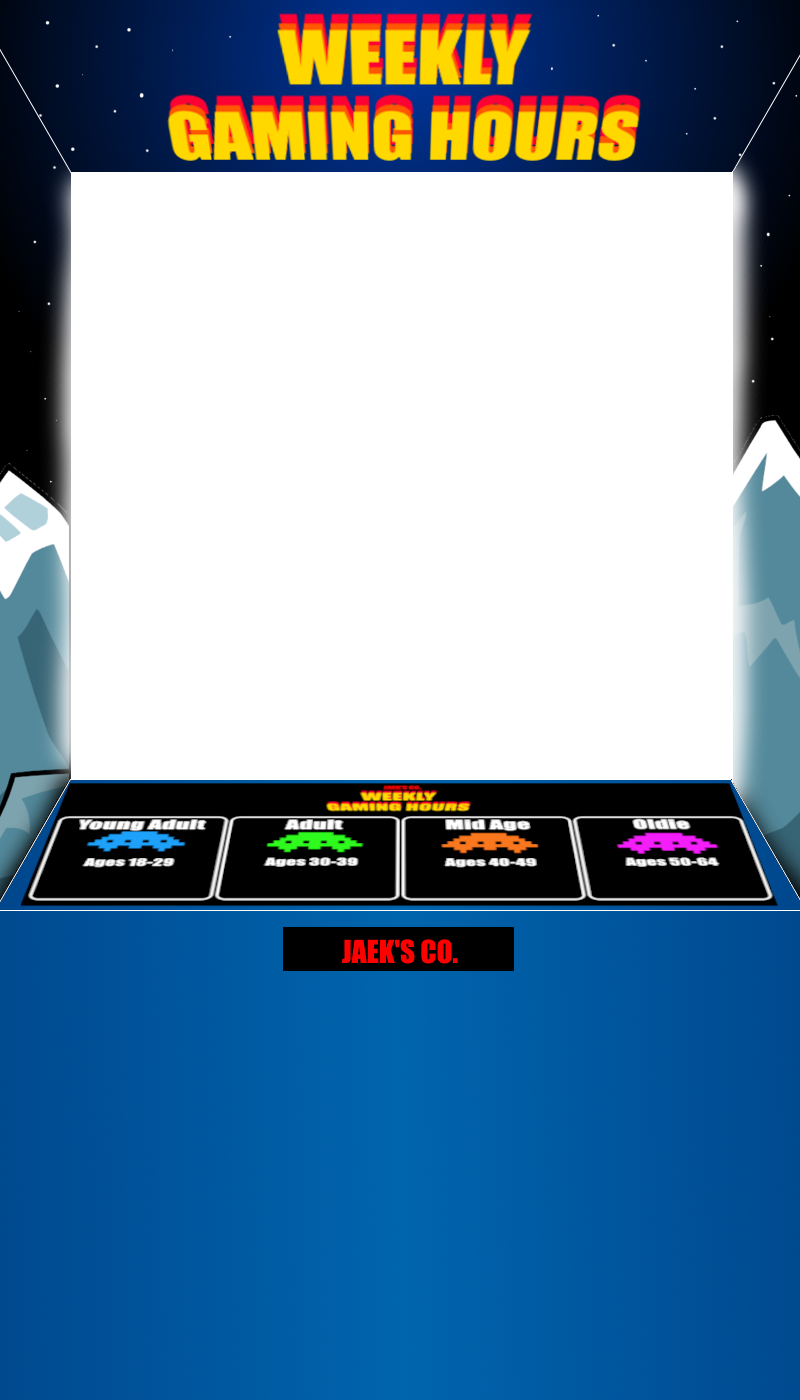
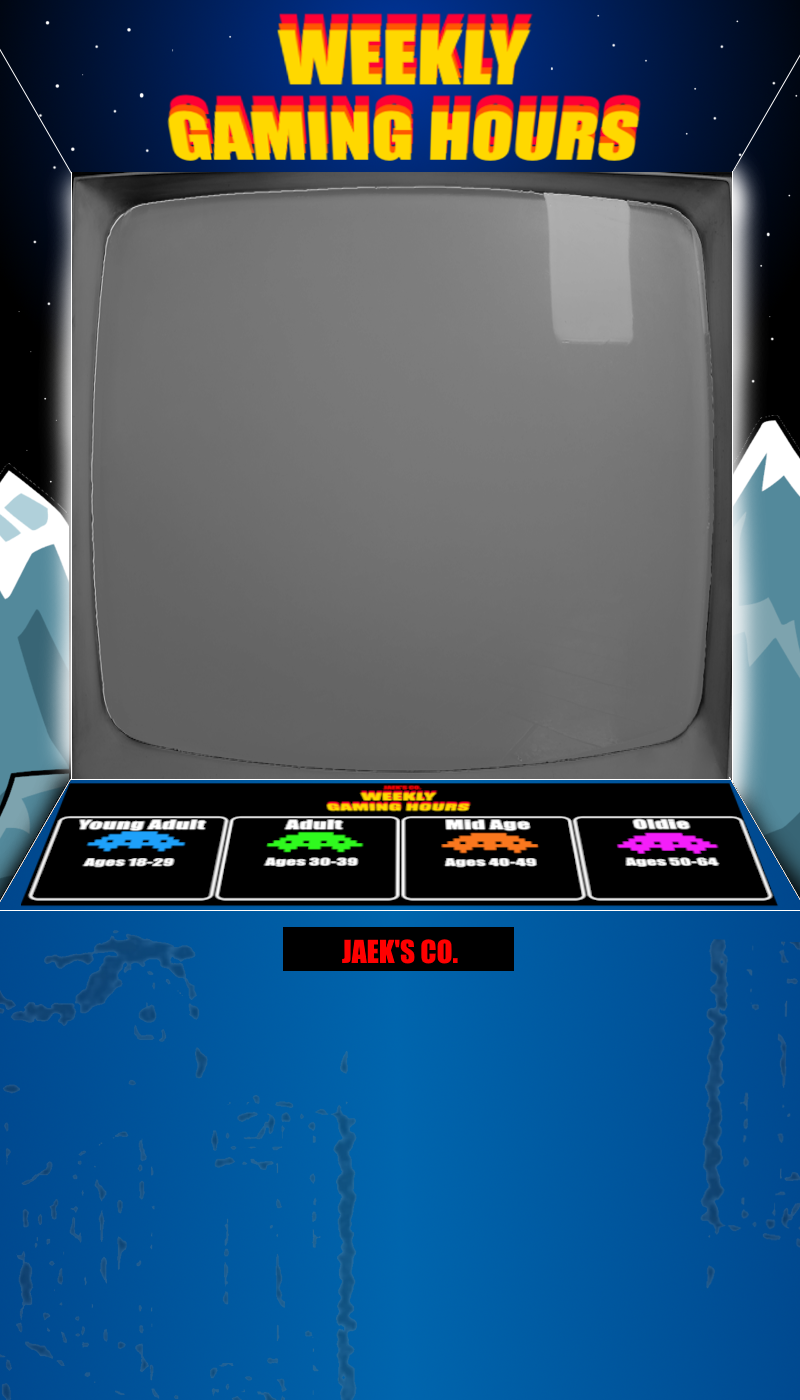
updated Arcade Cab and Sketch

diff --git a/sketch.js b/sketch.js
@@ -25,7 +25,6 @@ function preload() {
 function setup() {
   let canvas = createCanvas(800, 1400);
   canvas.parent("data");
-  console.log();
 }
 
 function draw() {
@@ -33,19 +32,19 @@ function draw() {
 
   // Display Light Chart
   if (img1Toggle) {
-    image(img1ToggleImage, 30, 300, 300, 500);  
+    image(img1ToggleImage, 30, 300, 300, 500);  // Display below img1
   }
 
   if (img2Toggle) {
-    image(img2ToggleImage, 175, 300, 300, 500);  
+    image(img2ToggleImage, 175, 300, 300, 500);  // Display below img2
   }
 
   if (img3Toggle) {
-    image(img3ToggleImage, 330, 300, 300, 500);  
+    image(img3ToggleImage, 330, 300, 300, 500);  // Display below img3
   }
 
   if (img4Toggle) {
-    image(img4ToggleImage, 480, 300, 300, 500); 
+    image(img4ToggleImage, 480, 300, 300, 500);  // Display below img4
   }
 
   // Display UFOs
@@ -60,23 +59,27 @@ function draw() {
 }
 
 function mousePressed() {
+  // Toggle visibility of the image below img1
+}
+
+function mousePressed() {
   // Toggle visibility for result1
-  if (mouseX >= 80 && mouseX <= 350 && mouseY >= 80 && mouseY <= 350) {
-    img1Toggle = !img1Toggle;  
+  if (mouseX >= 105 && mouseX <= 245 && mouseY >= 285 && mouseY <= 370) {
+    img1Toggle = !img1Toggle;
   }
 
   // Toggle visibility for result2
-  if (mouseX >= 175 && mouseX <= 350 && mouseY >= 175 && mouseY <= 350) {
-    img2Toggle = !img2Toggle;  
+  if (mouseX >= 260 && mouseX <= 400 && mouseY >= 320 && mouseY <= 385) {
+    img2Toggle = !img2Toggle;
   }
 
   // Toggle visibility for result3
-  if (mouseX >= 330 && mouseX <= 350 && mouseY >= 330 && mouseY <= 350) {
-    img3Toggle = !img3Toggle;  
+  if (mouseX >= 400 && mouseX <= 545 && mouseY >= 290 && mouseY <= 380) {
+    img3Toggle = !img3Toggle;
   }
 
   // Toggle visibility for result4
-  if (mouseX >= 550 && mouseX <= 350 && mouseY >= 550 && mouseY <= 350) {
-    img4Toggle = !img4Toggle;  
+  if (mouseX >= 550 && mouseX <= 690 && mouseY >= 280 && mouseY <= 380) {
+    img4Toggle = !img4Toggle;
   }
 }
